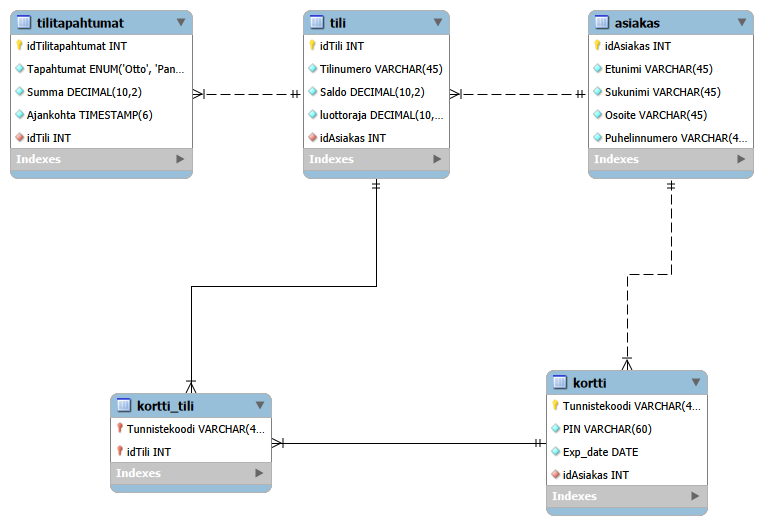
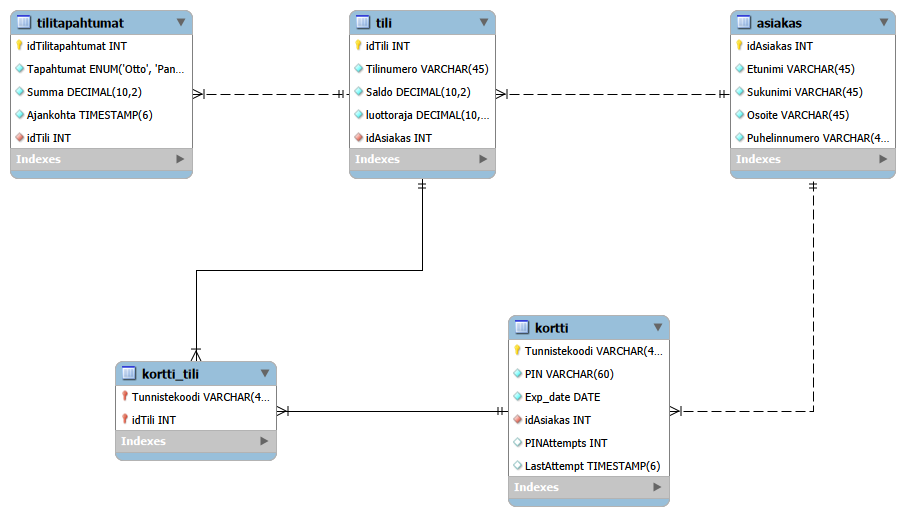
README päivitetty, ER-kaavion kuva päivitetty ja asiakastiedot timer tiputettu takaisin 10s

diff --git a/bank-automat/asiakastiedotwindow.cpp b/bank-automat/asiakastiedotwindow.cpp
@@ -13,7 +13,7 @@ asiakastiedotwindow::asiakastiedotwindow(QWidget *parent)
 
     //10s aikakatkaisun alustus.
     inactivityTimer = new QTimer(this);
-    inactivityTimer->setInterval(30000);
+    inactivityTimer->setInterval(10000);
 
     //Yhdistetään signaalit luokan slot funktioihin.
     connect(inactivityTimer, &QTimer::timeout, this, &asiakastiedotwindow::timeout);

diff --git a/README.md b/README.md
@@ -17,6 +17,8 @@ Tämän projektin tarkoitus oli luoda virtuaalinen pankkiautomaatti. Pankkiautom
  - **Tilitapahtumat:** Listaus tilin viimeisimmistä tilitapahtumista.
  - **Käteisen nosto:** Rahan nosto käyttäjän tililtä.
  - **Uloskirjautuminen:** Käyttäjän turvallinen uloskirjautuminen.
+ - **Aikakatkaisu:** Jos inaktiivinen 30 sekuntia niin kirjataan käyttäjä ulos
+ - **PIN-lukitus:** 3 Väärää yritystä lukitsee kortin.
 
 ## Työkalut
 
@@ -55,18 +57,18 @@ Tämän projektin tarkoitus oli luoda virtuaalinen pankkiautomaatti. Pankkiautom
 ## Asennus ja käyttöönotto
 
 ### Asennus:
-- Kloonaa repo tietokoneellesi
+- Kloonaa repo tietokoneellesi:
    ```
   git clone https://github.com/25kmo-project/group_3.git
    ```
-- Asenna riippuvuudet group_3/backend kansioon terminaalissa tai komentorivillä.
+- Asenna riippuvuudet group_3/backend kansioon terminaalissa tai komentorivillä:
 
 
     ```
     npm install bcryptjs@3.0.3 cookie-parser@1.4.7 debug@2.6.9 express@4.16.4 jsonwebtoken@9.0.3 morgan@1.9.1 mysql2@3.16.0 dotenv@17.2.3
     ```
 
-- Asenna nodemon työkalu group_3/backend kansioon.
+- Asenna nodemon työkalu group_3/backend kansioon:
   ```
   npm install nodemon -g
   ```
@@ -77,21 +79,21 @@ Tämän projektin tarkoitus oli luoda virtuaalinen pankkiautomaatti. Pankkiautom
   CREATE USER 'netuser'@'localhost' IDENTIFIED BY 'netpass';
   GRANT ALL PRIVILEGES ON bank_automat.* TO 'netuser'@'localhost';
   ``` 
-- Luo tietokannan rakenne juuresta löytyvällä Dump tiedostolla
+- Luo tietokannan rakenne juuresta löytyvällä Dump tiedostolla:
  
   **MySQL Workbench ohje:**
 
   - Avaa MySQL Workbench ja kirjaudu sisään.
 
-    Valitse vasemmasta laidasta Server-välilehti ja sieltä Data Import.
+  -  Valitse vasemmasta ylälaidasta Server-välilehti ja sieltä Data Import.
 
-    Valitse Import from Self-Contained File ja etsi projektin juuresta löytyvä Dump tiedosto (Dump.sql).
+  -  Valitse Import from Self-Contained File ja etsi projektin juuresta löytyvä Dump tiedosto (Dump.sql).
 
-    Valitse Default Target Schema -valikosta aiemmin luomasi tietokanta bank_automat.
+  -  Valitse Default Target Schema -valikosta aiemmin luomasi tietokanta bank_automat.
 
-    Paina Start Import.
+  -  Paina Start Import.
     
-- Luo .env tiedosto group_3/backend kansioon ja lisää sinne: 
+- Luo uusi tiedosto nimeltä ".env" group_3/backend kansioon ja lisää sinne: 
    ```
    SQL_SERVER="mysql://netuser:netpass@127.0.0.1:3306/bank_automat"
    MY_TOKEN=RAf6OUluNGmHPxUHb9fyO+KHqE3U6enB6lPszO7S/4iJA4589GxhJQtYvAwZL3DecMp9eTPDFkKkiAt8ouxByA==
@@ -99,19 +101,27 @@ Tämän projektin tarkoitus oli luoda virtuaalinen pankkiautomaatti. Pankkiautom
 
  ### Käyttöönotto:
 
- - Siirry terminaalissa tai komentorivillä projektin backend kansioon ja käynnistä palvelin:
+ - Siirry terminaalissa tai komentorivillä projektin backend kansioon group_3/backend ja käynnistä palvelin:
     ```
     nodemon
     ```
    - Tämä käynnistää Node.js palvelimen joka jää kuuntelemaan Qt-sovelluksen lähettämiä pyyntöjä.
 
  - Avaa Qt Creatorilla "bank_automat" projekti ja paina "Run" näppäintä.
- - Kun molemmat osat ovat käynnissä, voit testata sovellusta kirjautumalla sisään:
-   
-   - Syötä käyttöliittymään tietokannasta löytyvä tunnistekoodi (kortin numero).
+ - Kun molemmat osat ovat käynnissä, voit testata sovellusta kirjautumalla sisään testitunnuksilla:
 
-   - Syötä siihen liittyvä PIN-koodi.
-    - Onnistuneen kirjautumisen jälkeen voit käyttää kaikkia pankkitoimintoja.
+   ```
+   Sakari Sakkinen:
+   Tunnistekoodi: 111111
+   PIN: 0000
+
+   Aku Ankka:
+   Tunnistekoodi: 131313
+   PIN: 0000
+   ```
+
+   
+  - Onnistuneen kirjautumisen jälkeen voit käyttää kaikkia pankkitoimintoja.
 
 
 ## Projektin tekijät:
